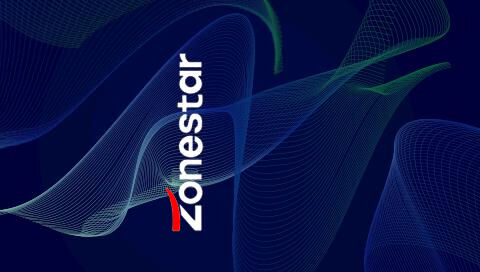
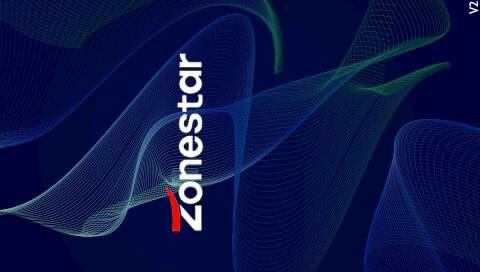
update DWIN_LCD readme

diff --git a/TFT-LCD/LCD-DWIN/readme.md b/TFT-LCD/LCD-DWIN/readme.md
@@ -10,9 +10,54 @@
 ### Connect to the EXP2 connector of ZM3E4
 **For others control board, please refer to the wiring diagrame of the printer**
 ![](Wiring.jpg)
+### Pin define on DWIN_LCD
+![](DWINLCD_Pindefine.jpg)
+![](EC11.jpg)
+
+	//EC11 P2 and G pins connected to GND. 
+	//Pin define of EXP2 of ZM3E4
+	#define BEEPER_PIN          PA15    //
+	#define BTN_EN1 			PB3    	//
+	#define BTN_EN2 			PB5    	//
+	#define BTN_ENC 			PB4   	//
+	#define LCD_TXD 			PA9   	//RXD of UART1
+	#define LCD_RXD 			PA10   	//TXD of UART1
 
 ## User guide
 - [***Menu description***](https://github.com/ZONESTAR3D/Upgrade-kit-guide/blob/main/TFT-LCD/LCD-DWIN/user_guide/LCD-DWIN%20MENU%20Description%20V1_2.pdf)
+
+## Upload firmware
+#### Step 1: Prepard a Micro-SD card (Size: 1~8GB), and format to FAT32 format with "Allocation units size" is 4069 bytes. 
+![](Format.jpg)      
+##### [format SD Card on Windows](https://recoverit.wondershare.com/partition-tips/format-sd-in-windows-10.html?/topic/916-upgrade-to-pdf-to-pages/=&comment=2884&gclid=Cj0KCQiAmpyRBhC-ARIsABs2EApQAT_0jaSjNTHDKfbyTB8K-lLEt9m_hd2Ro526ZG6lerIJX3YE-7caAhXAEALw_wcB)  
+##### [format SD Card on Mac OS](https://recoverit.wondershare.com//mac-tips/format-sd-card-fat32-mac.html?gclid=Cj0KCQiAmpyRBhC-ARIsABs2EAo1hhsQ62C9vIhIAKUQitkIz72xy7axY1Ylf9p7Z7-kPSLVffoWslQaAp19EALw_wcB) 
+#### Step 2: Download and unzip "DWIN\_SET" to your PC, copy DWIN_SET to the root directory of SD card.
+![](SD1.jpg)  
+![](SD2.jpg)  
+
+#### Step 3: Remove the screws from the back of LCD box, take down the backplate.
+![](open_box.jpg)
+#### Step 4: Remove the screws that mounted the LCD screen.
+![](open_box2.jpg)
+#### Step 5: Insert the Micro-SD card into the socket of the LCD screen PCBA.
+![](Insert_SD.jpg)
+#### Step 6: Connect the LCD screen to the 3d printer (Power on it first), and the LCD screen will show full "BLUE" and then full "RED" about 30 seconds.
+![](LCDShows.jpg)
+#### Step 7: Disconnect the LCD screen cable and remove the Micro-SD card.
+#### Step 8: Install the screws just removed in the reverse order, Done! 
+#### After upload firmware (V2 version), you can find a string "V2" on LCD SCREEN
+![](LCDShowV2.jpg)  
+
+
+
+## How to downlod files from Github page
+#### Step 1: Click this link [**https://downgit.github.io/**](https://downgit.github.io/) 
+#### Step 2: Copy the Github file or direcotry link which you want to download.
+#### Step 3: Click download button and wait a few seconds, it will start to download automatically. 
+![](https://github.com/ZONESTAR3D/Document-and-User-Guide/blob/master/download.gif)   
+
+
+
 
 
 
